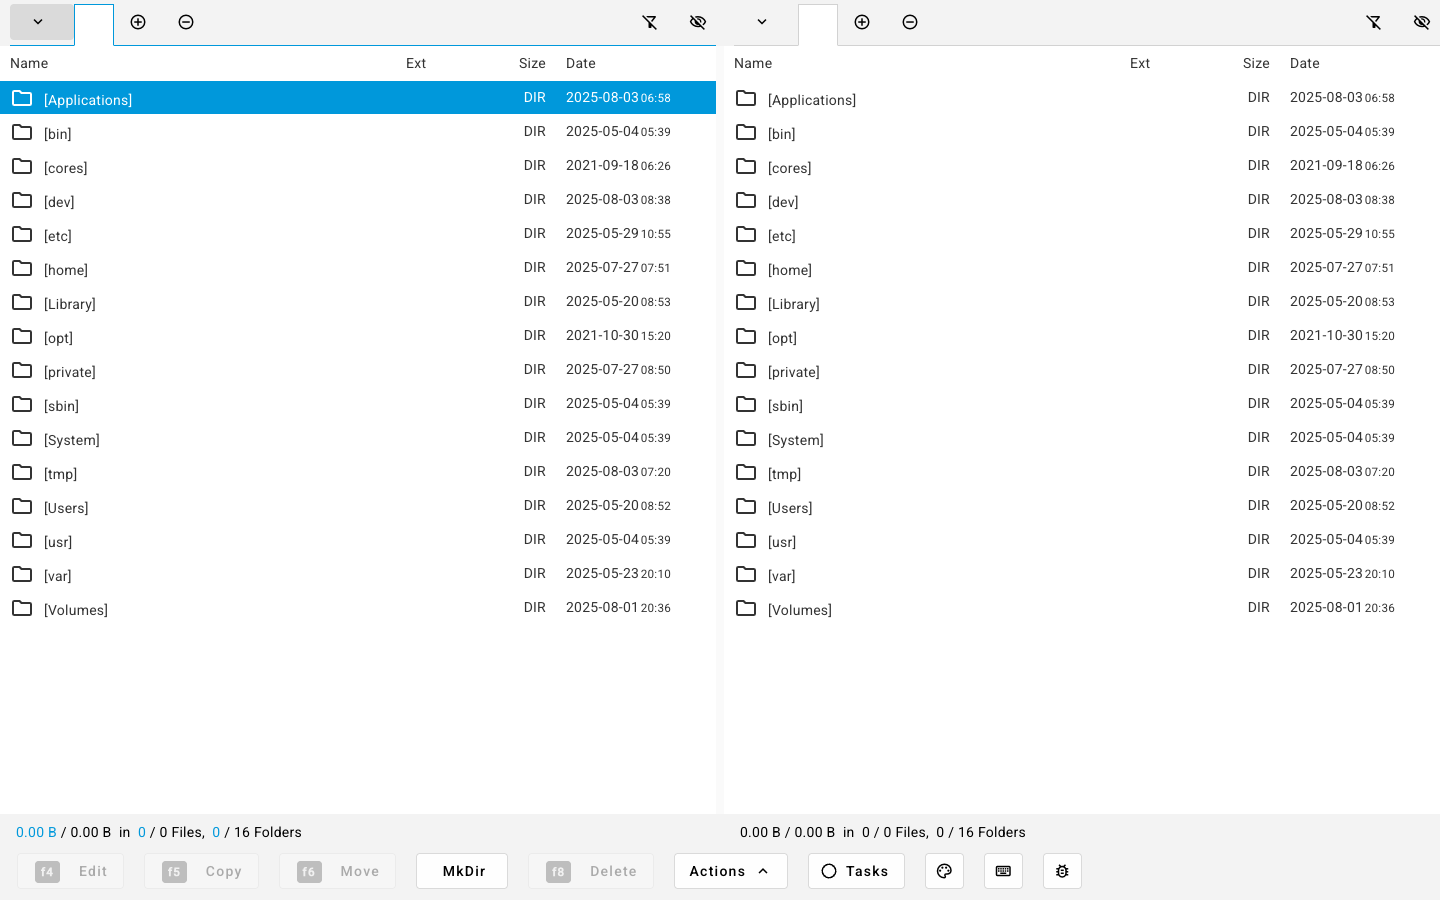
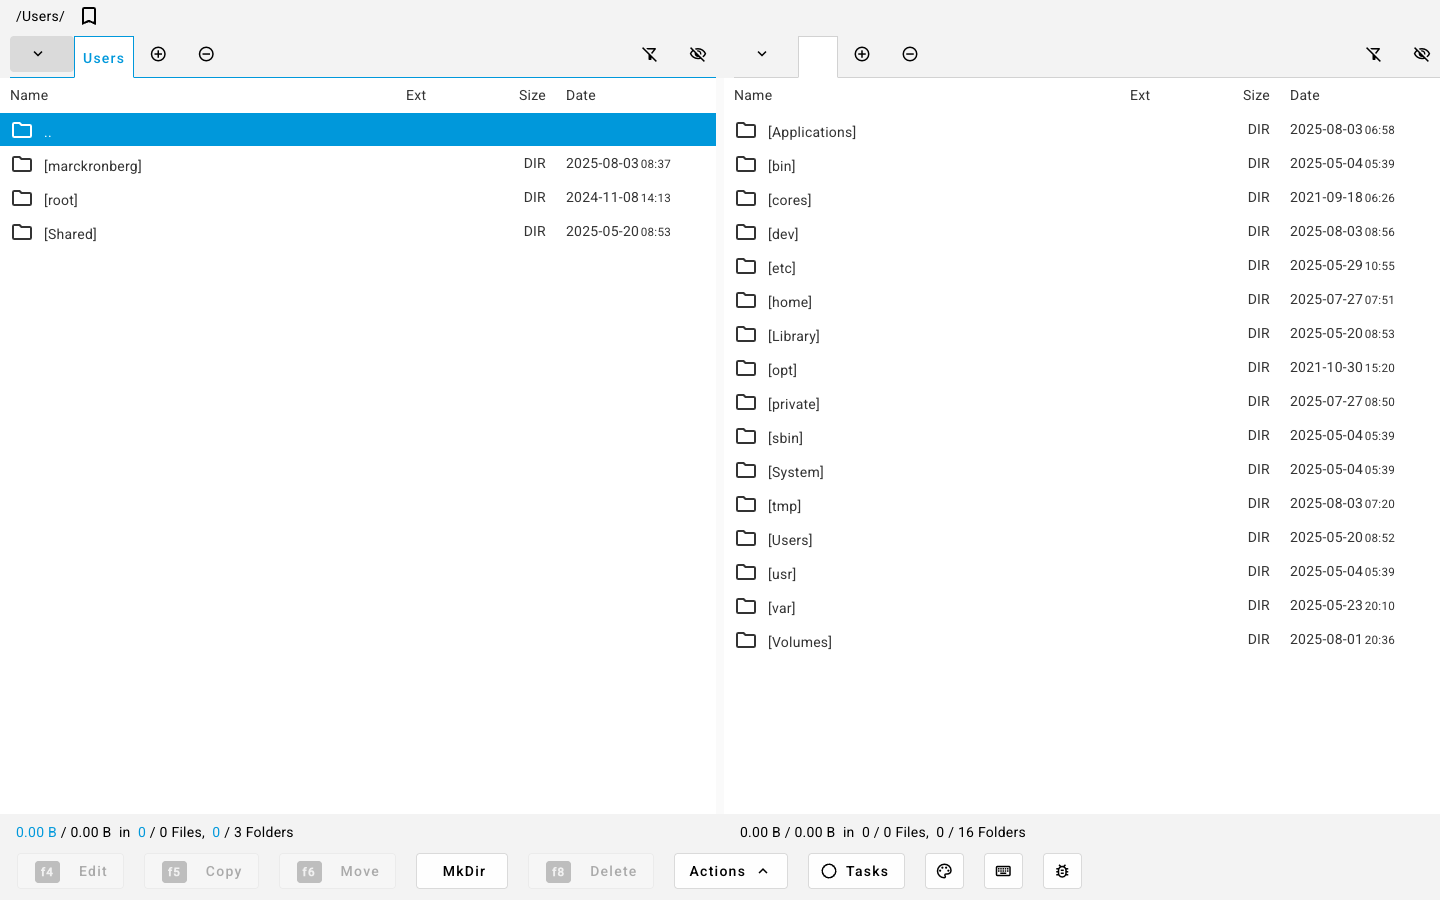
chore(shortcuts): add support for nested shortcuts and improve key handling logic
- Introduce handling for nested shortcuts in `urls.json`.
- Expand supported key list in `screenshot.js`.
- Refactor `pressShortcut` to utilize `handleKey` for improved key processing.
- Add new screenshot for `main-start-new-left-tab`.

diff --git a/apps/screenshot/screenshot.js b/apps/screenshot/screenshot.js
@@ -5,17 +5,34 @@ const URLS_INPUT_FILE = "./urls.json";
 const OUT_DIR = "./screenshots";
 const VIEWPORT = {width: 1440, height: 900};
 
+const KEYS = [
+  "Power", "Eject", "Abort", "Help", "Backspace", "Tab", "Numpad5", "NumpadEnter", "Enter", "\r", "\n", "ShiftLeft", "ShiftRight", "ControlLeft", "ControlRight", "AltLeft", "AltRight", "Pause", "CapsLock", "Escape", "Convert", "NonConvert", "Space", "Numpad9", "PageUp", "Numpad3", "PageDown", "End", "Numpad1", "Home", "Numpad7", "ArrowLeft", "Numpad4", "Numpad8", "ArrowUp", "ArrowRight", "Numpad6", "Numpad2", "ArrowDown", "Select", "Open", "PrintScreen", "Insert", "Numpad0", "Delete", "NumpadDecimal", "Digit0", "Digit1", "Digit2", "Digit3", "Digit4", "Digit5", "Digit6", "Digit7", "Digit8", "Digit9", "MetaLeft", "MetaRight", "ContextMenu", "NumpadMultiply", "NumpadAdd", "NumpadSubtract", "NumpadDivide", "F1", "F2", "F3", "F4", "F5", "F6", "F7", "F8", "F9", "F10", "F11", "F12", "F13", "F14", "F15", "F16", "F17", "F18", "F19", "F20", "F21", "F22", "F23", "F24", "NumLock", "ScrollLock", "AudioVolumeMute", "AudioVolumeDown", "AudioVolumeUp", "MediaTrackNext", "MediaTrackPrevious", "MediaStop", "MediaPlayPause", "Semicolon", "Equal", "NumpadEqual", "Comma", "Minus", "Period", "Slash", "Backquote", "BracketLeft", "Backslash", "BracketRight", "Quote", "AltGraph", "Props", "Cancel", "Clear", "Shift", "Control", "Alt", "Accept", "ModeChange", "Print", "Execute", "Meta", "Attn", "CrSel", "ExSel", "EraseEof", "Play", "ZoomOut", "SoftLeft", "SoftRight", "Camera", "Call", "EndCall", "VolumeDown", "VolumeUp"
+];
+
+async function handleKey(modifiers, key, page, held) {
+  if (modifiers.includes(key)) {
+    await page.keyboard.down(key);
+    held.push(key);
+  } else {
+    await page.keyboard.press(key);
+  }
+}
+
 async function pressShortcut(page, shortcut) {
   const modifiers = ["Shift", "Control", "Alt", "Meta"];
   const held = [];
 
   for (const key of shortcut) {
-    if (modifiers.includes(key)) {
-      await page.keyboard.down(key);
-      held.push(key);
+    if (key.length > 2 && !KEYS.includes(key)) {
+      let keys = key.split("");
+      for (const k of keys) {
+        await handleKey(modifiers, k, page, held);
+      }
+      await new Promise(resolve => setTimeout(resolve, 100));
     } else {
-      await page.keyboard.press(key);
+      await handleKey(modifiers, key, page, held);
     }
+
   }
 
   // Modifier wieder loslassen
